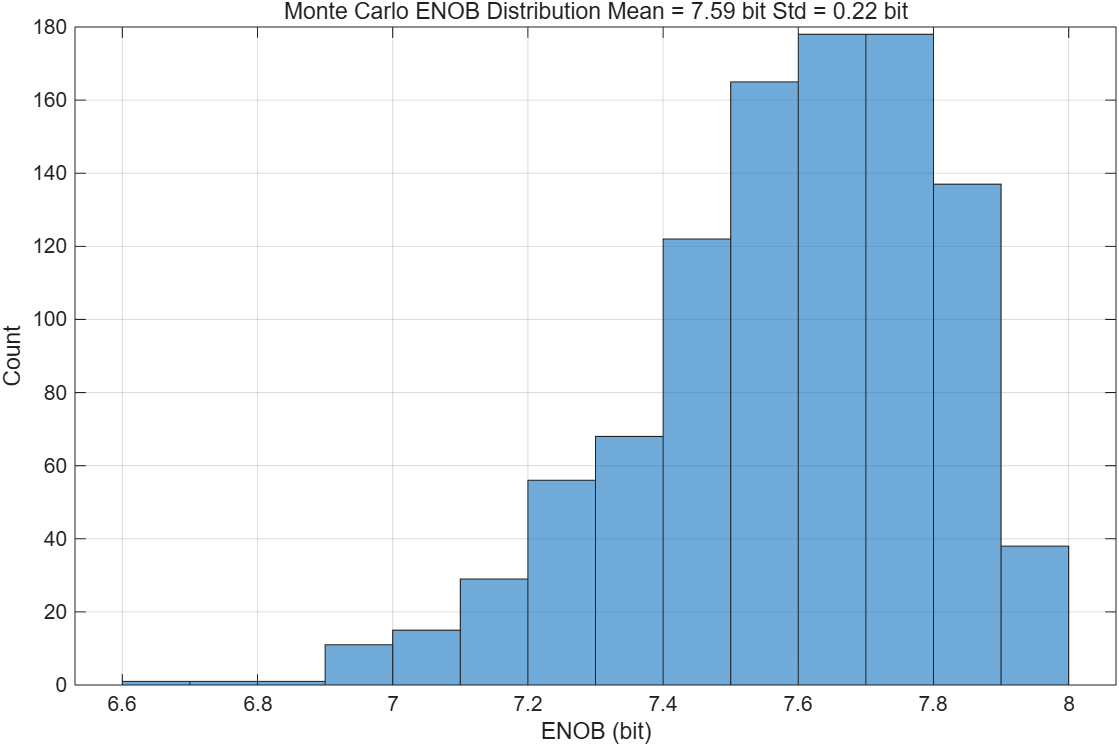
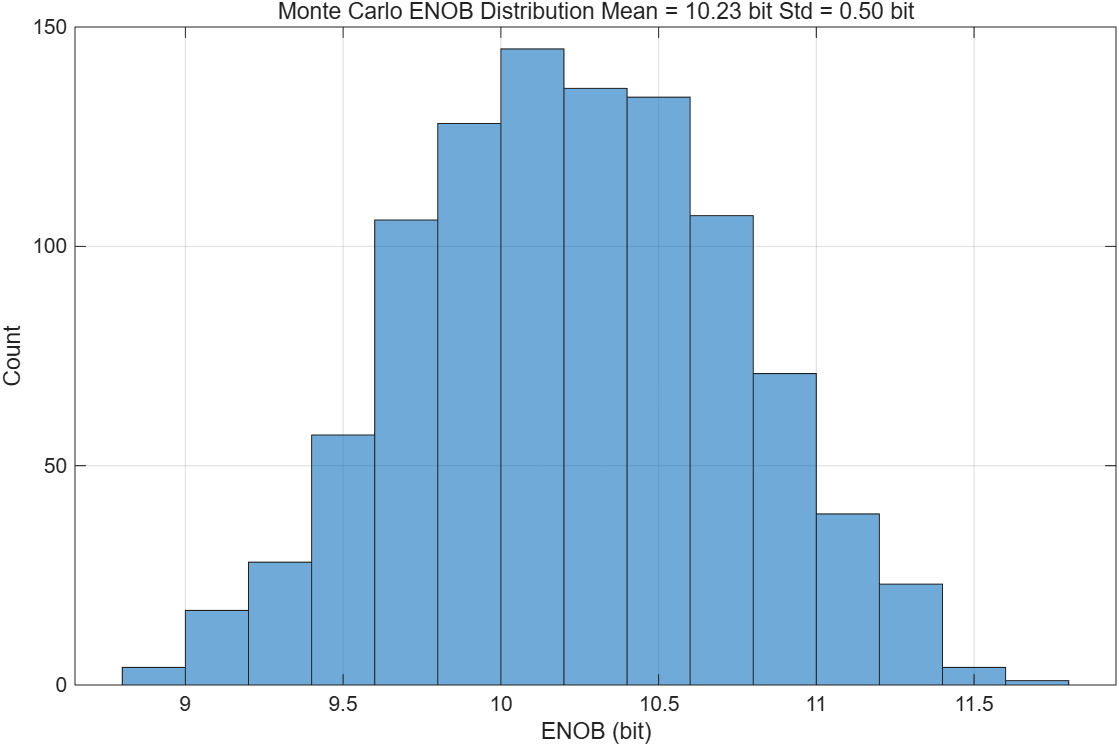
change processAdcData

diff --git a/sim-config/configDynamicTest.m b/sim-config/configDynamicTest.m
@@ -2,7 +2,7 @@ function p = configDynamicTest
 
   %% basic specification
 
-  p.adcResolution = 8;
+  p.adcResolution = 12;
   p.fftLen = 1024;
   p.Vref = 1.2;
   p.fs = 10e6;
